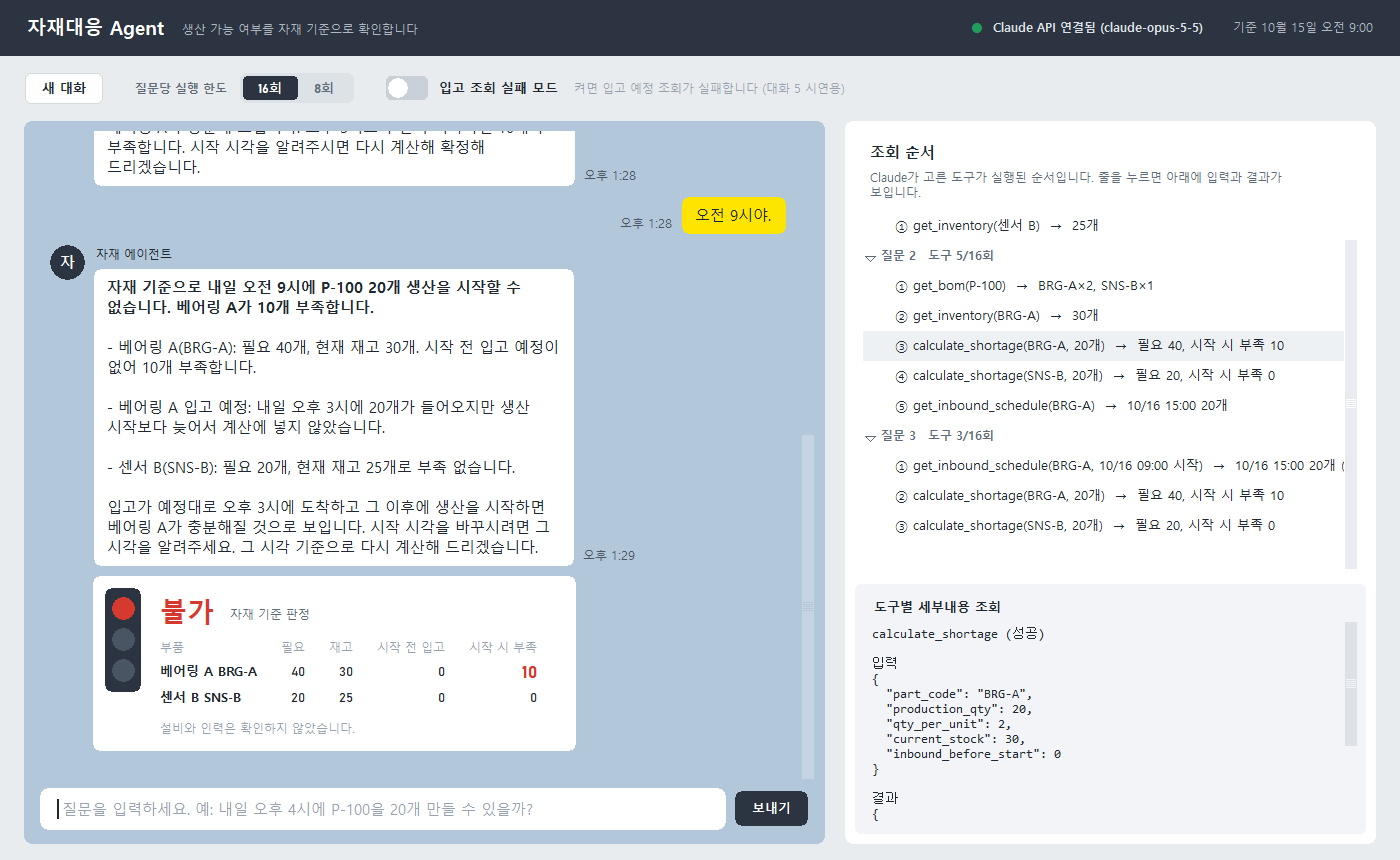
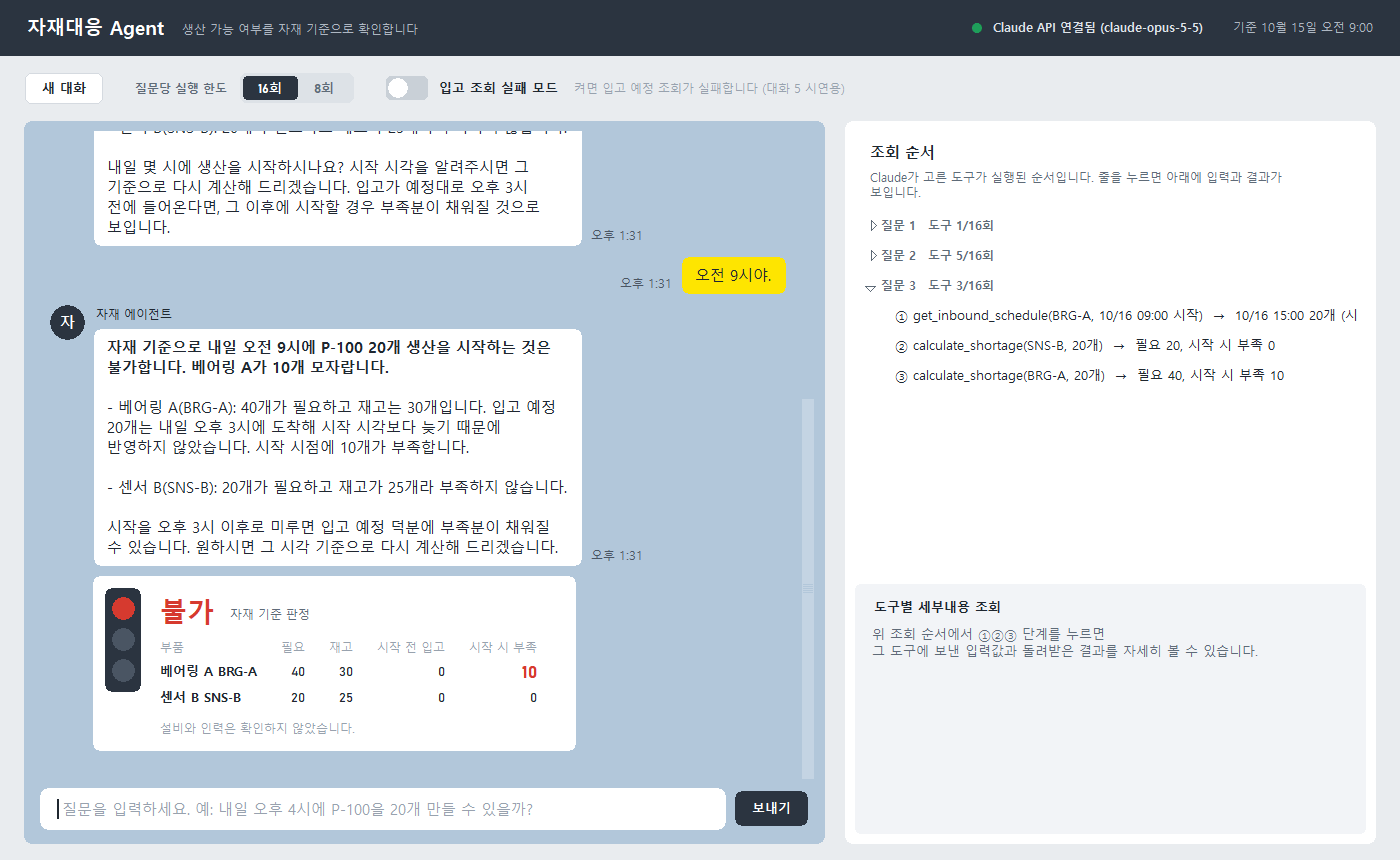
feat: collapse earlier turns in trace

diff --git a/tests/test_app.py b/tests/test_app.py
@@ -384,3 +384,13 @@ def test_detail_area_is_separate_region(root):
     assert app.detail_title["text"] == "도구별 세부내용 조회"
     assert app.detail_panel.is_rounded and app.detail_panel.fill == app_module.DETAIL_BG
     assert app.detail["bg"] == app_module.DETAIL_BG != app_module.SURFACE
+
+
+def test_previous_turn_groups_collapse(root):
+    app = make_app(root, FakeAgent())
+    call = ToolCall("get_inventory", {"part_code": "BRG-A"}, True, {"found": True, "current_stock": 30, "unit": "개"})
+    for n in (1, 2, 3):
+        app._start_turn_group(n)
+        app._on_tool_call(n, call)
+    groups = app.tool_tree.get_children()
+    assert [bool(app.tool_tree.item(g, "open")) for g in groups] == [False, False, True]

diff --git a/app.py b/app.py
@@ -612,6 +612,9 @@ class MaterialApp(tk.Frame):
 
     # ---------- 화면 갱신 ----------
     def _start_turn_group(self, n: int) -> None:
+        # 앞 질문들의 조회 순서는 접고 새 질문만 펼친다 (▷를 누르면 다시 펼쳐짐)
+        for group in self._groups.values():
+            self.tool_tree.item(group["id"], open=False)
         limit = int(self.limit_var.get())
         parent = self.tool_tree.insert("", "end", text=f"질문 {n}   도구 0/{limit}회", open=True, tags=("group",))
         self._groups[n] = {"id": parent, "limit": limit, "count": 0}

diff --git a/process.md b/process.md
@@ -22,3 +22,4 @@
 | 2026-10-15 | feat: rounded commercial-grade UI polish | 직각 상자·회색 테두리·이중 상자를 없애고 둥근 부품으로 통일: 대화·조회 패널(둥근 바탕, 테두리 없음), 둥근 버튼(새 대화·보내기), 알약형 실행 한도 선택(16회/8회), 입고 조회 실패 모드 스위치, 둥근 입력창, 둥근 안돈 카드와 신호등 기둥, 둥근 프로필. 조회 목록 자체 테두리 제거, 높이 조절 경계는 회색 막대 대신 여백. 스크롤바는 내용이 넘칠 때만 표시. 화면 캡처는 앱 창만 그려 저장하도록 변경(화면 보안 워터마크가 찍히지 않게). README 스크린샷 갱신. 테스트 104개 통과 |
 | 2026-10-15 | feat: clearer detail hint text | 입력·결과 원문 칸 안내문을 "위 조회 순서에서 ①②③ 단계를 누르면 그 도구에 보낸 입력값과 돌려받은 결과를 자세히 볼 수 있습니다."로 변경, 안내문은 본문 글꼴(10pt, 옅은 회색)로 표시해 ①②③이 깨지지 않게 함. 입력·결과 원문 글자 9pt→10pt. README 스크린샷 갱신. 테스트 105개 통과 |
 | 2026-10-15 | feat: separate tool detail region | 세부내용 영역 제목을 "도구별 세부내용 조회"로 변경하고, 연한 회색(#F2F4F7) 둥근 바탕의 별도 영역으로 조회 순서와 구분. 영역 바탕에 맞춘 옅은 스크롤바, 조회 순서와 스크롤바 위치 정렬 유지. README 스크린샷 갱신. 테스트 106개 통과 |
+| 2026-10-15 | feat: collapse earlier turns in trace | 조회 순서에서 새 질문이 시작되면 앞 질문들의 단계 목록은 자동으로 접고 마지막 질문만 펼침(▷를 누르면 다시 펼쳐짐). README 스크린샷 갱신. 테스트 107개 통과 |
